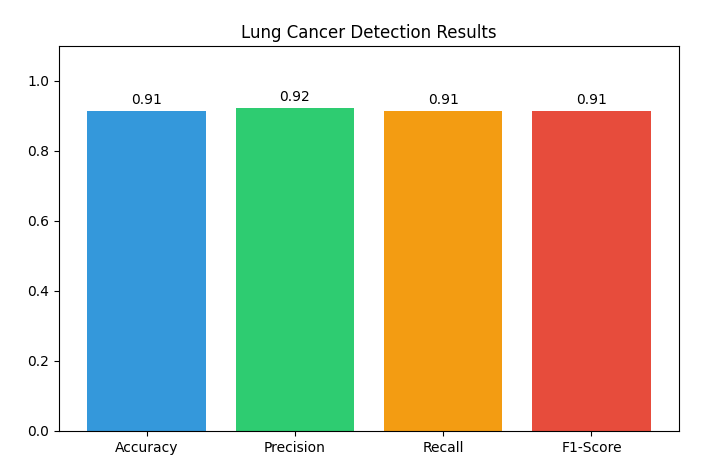
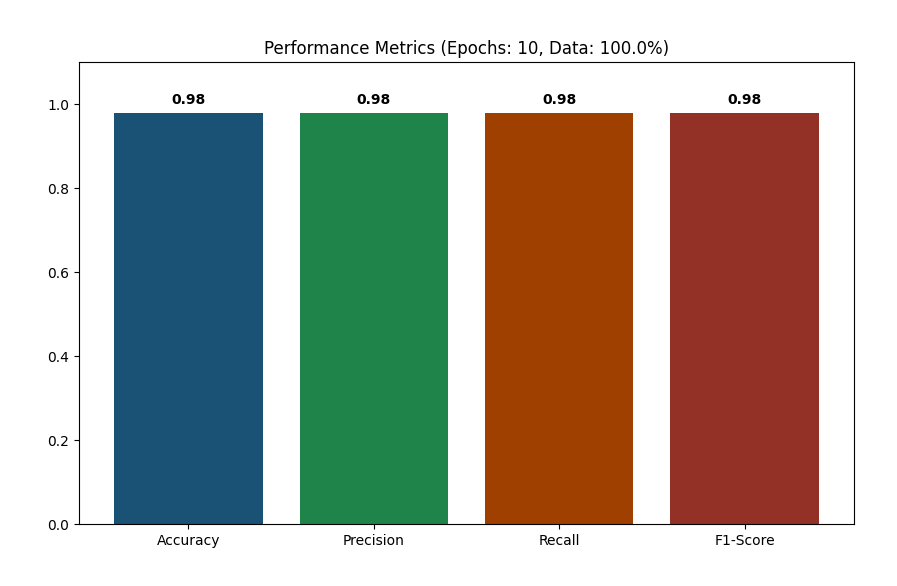
update : model

diff --git a/task 2 - CNN implementation/main.py b/task 2 - CNN implementation/main.py
@@ -3,98 +3,154 @@ import zipfile
 import torch
 import torch.nn as nn
 import torch.optim as optim
-from torchvision import datasets, transforms, models
+import torch.nn.functional as F
+from torchvision import datasets, transforms
 from torch.utils.data import DataLoader
 from sklearn.metrics import accuracy_score, precision_score, recall_score, f1_score
 import matplotlib.pyplot as plt
 
+# ==========================================
+# CENTRAL CONFIGURATION (Modify here only)
+# ==========================================
+CONFIG = {
+    "dataset_url": "andrewmvd/lung-and-colon-cancer-histopathological-images",
+    "zip_name": "lung-and-colon-cancer-histopathological-images.zip",
+    "extract_path": "data",
+    "img_size": 128,  # Image dimensions (128x128)
+    "batch_size": 32,  # Number of images per training step
+    "learning_rate": 0.001,  # Optimizer learning rate
+    "epochs": 10,  # Total training rounds
+    "subset_fraction": 1.0,  # 1.0 = Use 100% of the dataset for best results
+    "train_split": 0.8,  # 80% for training, 20% for testing
+    "dropout_rate": 0.3,  # Regularization to prevent overfitting
+}
 
-# ১. ডেটাসেট প্রিপারেশন (ডাউনলোড ও এক্সট্রাক্ট)
+
+# --- 1. Custom CNN Architecture ---
+class CustomLungCNN(nn.Module):
+    def __init__(self, num_classes):
+        super(CustomLungCNN, self).__init__()
+
+        # Block 1: Conv -> BN -> Pool
+        self.conv1 = nn.Conv2d(3, 32, kernel_size=3, padding=1)
+        self.bn1 = nn.BatchNorm2d(32)
+
+        # Block 2
+        self.conv2 = nn.Conv2d(32, 64, kernel_size=3, padding=1)
+        self.bn2 = nn.BatchNorm2d(64)
+
+        # Block 3
+        self.conv3 = nn.Conv2d(64, 128, kernel_size=3, padding=1)
+        self.bn3 = nn.BatchNorm2d(128)
+
+        self.pool = nn.MaxPool2d(2, 2)
+        self.dropout = nn.Dropout(CONFIG["dropout_rate"])
+
+        # Fully Connected Layers (Input is 128 channels * 16x16 pixels)
+        self.fc1 = nn.Linear(128 * 16 * 16, 512)
+        self.fc2 = nn.Linear(512, num_classes)
+
+    def forward(self, x):
+        x = self.pool(F.relu(self.bn1(self.conv1(x))))
+        x = self.pool(F.relu(self.bn2(self.conv2(x))))
+        x = self.pool(F.relu(self.bn3(self.conv3(x))))
+
+        x = x.view(-1, 128 * 16 * 16)  # Flattening
+        x = F.relu(self.fc1(x))
+        x = self.dropout(x)
+        x = self.fc2(x)
+        return x
+
+
+# --- 2. Automated Dataset Handling ---
 def prepare_dataset():
-    zip_file = "lung-and-colon-cancer-histopathological-images.zip"
-    extract_folder = "data"
-
-    # চেক করা ডেটা অলরেডি আছে কি না
+    # 1. Check if unzipped folder already exists
     for root, dirs, files in os.walk("."):
         if "lung_image_sets" in dirs:
             return os.path.join(root, "lung_image_sets")
 
-    # জিপ না থাকলে ডাউনলোড করা
-    if not os.path.exists(zip_file):
-        print("---> Downloading dataset via Kaggle CLI...")
-        os.system(
-            "kaggle datasets download -d andrewmvd/lung-and-colon-cancer-histopathological-images"
-        )
+    # 2. Download from Kaggle if zip is missing
+    if not os.path.exists(CONFIG["zip_name"]):
+        print(f"---> Downloading dataset: {CONFIG['dataset_url']}...")
+        os.system(f"kaggle datasets download -d {CONFIG['dataset_url']}")
 
-    # জিপ ফাইল আনজিপ করা
-    if os.path.exists(zip_file):
-        print("---> Extracting dataset...")
-        with zipfile.ZipFile(zip_file, "r") as zip_ref:
-            zip_ref.extractall(extract_folder)
+    # 3. Extract the zip file
+    if os.path.exists(CONFIG["zip_name"]):
+        print("---> Extracting dataset files...")
+        with zipfile.ZipFile(CONFIG["zip_name"], "r") as zip_ref:
+            zip_ref.extractall(CONFIG["extract_path"])
 
-        for root, dirs, files in os.walk(extract_folder):
+        for root, dirs, files in os.walk(CONFIG["extract_path"]):
             if "lung_image_sets" in dirs:
                 return os.path.join(root, "lung_image_sets")
-
-    print(
-        "Error: Dataset not found. Please ensure kaggle.json is configured or place the zip file here."
-    )
     return None
 
 
-# ২. মেইন সেটআপ এবং ডেটা লোড
+# --- 3. Main Execution ---
 data_path = prepare_dataset()
 if not data_path:
+    print("Error: Dataset initialization failed.")
     exit()
 
+# Image processing pipeline
 transform = transforms.Compose(
     [
-        transforms.Resize((128, 128)),
+        transforms.Resize((CONFIG["img_size"], CONFIG["img_size"])),
         transforms.ToTensor(),
-        transforms.Normalize([0.485, 0.456, 0.406], [0.229, 0.224, 0.225]),
+        transforms.Normalize([0.5, 0.5, 0.5], [0.5, 0.5, 0.5]),
     ]
 )
 
+# Loading Dataset
 full_dataset = datasets.ImageFolder(root=data_path, transform=transform)
 
-# দ্রুত ট্রেনিংয়ের জন্য ১৫% ডেটা ব্যবহার (পুরোটার জন্য subset_size = len(full_dataset) দিন)
-subset_size = int(0.15 * len(full_dataset))
+# Determine data subset size
+subset_size = int(CONFIG["subset_fraction"] * len(full_dataset))
 indices = torch.randperm(len(full_dataset))[:subset_size]
 subset_dataset = torch.utils.data.Subset(full_dataset, indices)
 
-train_size = int(0.8 * len(subset_dataset))
+# Train-Test Split
+train_size = int(CONFIG["train_split"] * len(subset_dataset))
 test_size = len(subset_dataset) - train_size
 train_data, test_data = torch.utils.data.random_split(
     subset_dataset, [train_size, test_size]
 )
 
-train_loader = DataLoader(train_data, batch_size=32, shuffle=True)
-test_loader = DataLoader(test_data, batch_size=32, shuffle=False)
+train_loader = DataLoader(train_data, batch_size=CONFIG["batch_size"], shuffle=True)
+test_loader = DataLoader(test_data, batch_size=CONFIG["batch_size"], shuffle=False)
 
-# ৩. মডেল তৈরি (CNN - ResNet18)
+# --- 4. Model Training Setup ---
 device = torch.device("cuda" if torch.cuda.is_available() else "cpu")
-model = models.resnet18(weights=models.ResNet18_Weights.DEFAULT)
-model.fc = nn.Linear(model.fc.in_features, len(full_dataset.classes))
-model = model.to(device)
+model = CustomLungCNN(num_classes=len(full_dataset.classes)).to(device)
 
 criterion = nn.CrossEntropyLoss()
-optimizer = optim.Adam(model.parameters(), lr=0.001)
+optimizer = optim.Adam(model.parameters(), lr=CONFIG["learning_rate"])
 
-# ৪. ট্রেনিং (১ এপক)
-print(f"Training on {device}...")
-model.train()
-for imgs, lbls in train_loader:
-    imgs, lbls = imgs.to(device), lbls.to(device)
-    optimizer.zero_grad()
-    outputs = model(imgs)
-    loss = criterion(outputs, lbls)
-    loss.backward()
-    optimizer.step()
+# --- 5. Training Loop ---
+print(f"Training Custom Model on {device} using {subset_size} images...")
 
-# ৫. ইভালুয়েশন এবং মেট্রিক্স
-print("Evaluating Model...")
+for epoch in range(CONFIG["epochs"]):
+    model.train()
+    running_loss = 0.0
+    for imgs, lbls in train_loader:
+        imgs, lbls = imgs.to(device), lbls.to(device)
+
+        optimizer.zero_grad()
+        outputs = model(imgs)
+        loss = criterion(outputs, lbls)
+        loss.backward()
+        optimizer.step()
+
+        running_loss += loss.item()
+    print(
+        f"Epoch [{epoch+1}/{CONFIG['epochs']}], Loss: {running_loss/len(train_loader):.4f}"
+    )
+
+# --- 6. Metrics and Evaluation ---
+print("Running final evaluation...")
 model.eval()
 y_true, y_pred = [], []
+
 with torch.no_grad():
     for imgs, lbls in test_loader:
         imgs, lbls = imgs.to(device), lbls.to(device)
@@ -103,22 +159,34 @@ with torch.no_grad():
         y_true.extend(lbls.cpu().numpy())
         y_pred.extend(preds.cpu().numpy())
 
+# Score Calculations
 acc = accuracy_score(y_true, y_pred)
 pre = precision_score(y_true, y_pred, average="weighted")
 rec = recall_score(y_true, y_pred, average="weighted")
 f1 = f1_score(y_true, y_pred, average="weighted")
 
 print(
-    f"\nFinal Results:\nAccuracy: {acc:.4f}\nPrecision: {pre:.4f}\nRecall: {rec:.4f}\nF1 Score: {f1:.4f}"
+    f"\nFinal Performance:\nAcc: {acc:.4f} | Pre: {pre:.4f} | Rec: {rec:.4f} | F1: {f1:.4f}"
 )
 
-# ৬. গ্রাফিক্যাল রেজাল্ট
-metrics = ["Accuracy", "Precision", "Recall", "F1-Score"]
-values = [acc, pre, rec, f1]
-plt.figure(figsize=(8, 5))
-plt.bar(metrics, values, color=["#3498db", "#2ecc71", "#f39c12", "#e74c3c"])
+# --- 7. Visualization ---
+m_names = ["Accuracy", "Precision", "Recall", "F1-Score"]
+m_values = [acc, pre, rec, f1]
+
+plt.figure(figsize=(10, 6))
+colors = ["#1a5276", "#1e8449", "#a04000", "#943126"]
+bars = plt.bar(m_names, m_values, color=colors)
 plt.ylim(0, 1.1)
-plt.title("Lung Cancer Detection Results")
-for i, v in enumerate(values):
-    plt.text(i, v + 0.02, f"{v:.2f}", ha="center")
+plt.title(
+    f'Performance Metrics (Epochs: {CONFIG["epochs"]}, Data: {CONFIG["subset_fraction"]*100}%)'
+)
+for bar in bars:
+    yval = bar.get_height()
+    plt.text(
+        bar.get_x() + bar.get_width() / 2,
+        yval + 0.02,
+        f"{yval:.2f}",
+        ha="center",
+        fontweight="bold",
+    )
 plt.show()

diff --git a/task 2 - CNN implementation/README.md b/task 2 - CNN implementation/README.md
@@ -206,6 +206,40 @@ scikit-learn       - Machine learning metrics
 kaggle             - Kaggle API client
 ```
 
+## 🧩 Code Update & How to Re-run
+
+- **Where to edit:** Open `main.py` to change training behaviour and parameters.
+- **Common editable parameters:**
+   - `subset_size` — fraction or number of samples used for quick runs (default in script: `int(0.15 * len(full_dataset))`).
+   - `train_loader` / `batch_size` — adjust batch size in the DataLoader creation.
+   - `optimizer` / `lr` — learning rate set when instantiating the optimizer.
+   - `num_epochs` — the script currently runs a single epoch; wrap the training loop in an epoch loop to increase epochs.
+
+- **Save result plot instead of showing it interactively:** locate the plotting code at the end of `main.py` and replace or add the following lines to save the figure to `assets/result.png`:
+
+```python
+# after plotting code (replace plt.show())
+plt.tight_layout()
+plt.savefig('assets/result.png', dpi=200)
+plt.close()
+```
+
+- **Quick commands to re-run the project:**
+
+```powershell
+# activate virtualenv (Windows)
+.venv\Scripts\activate
+
+# (re)install deps if needed
+pip install -r requirements.txt
+
+# run the training/evaluation script
+python main.py
+```
+
+- **Tip for iterative development:** change `subset_size` and `num_epochs` for fast local experiments, then switch to full dataset and more epochs for final runs.
+
+
 ## ⚠ Troubleshooting
 
 ### "Dataset not found" Error
